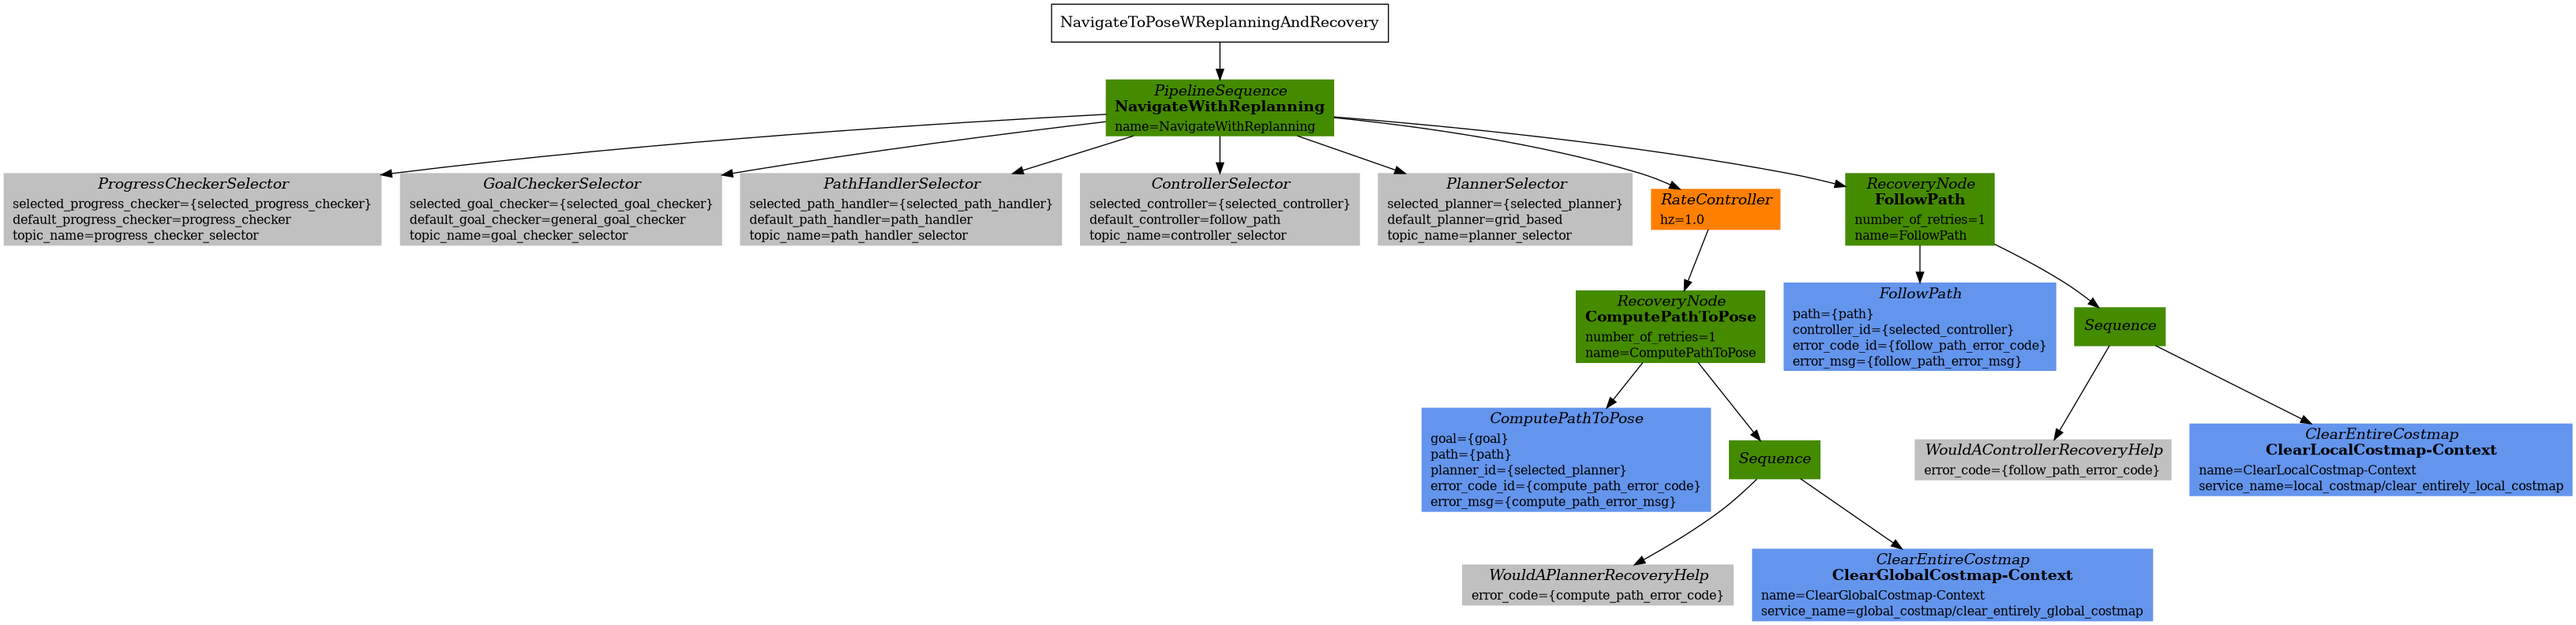
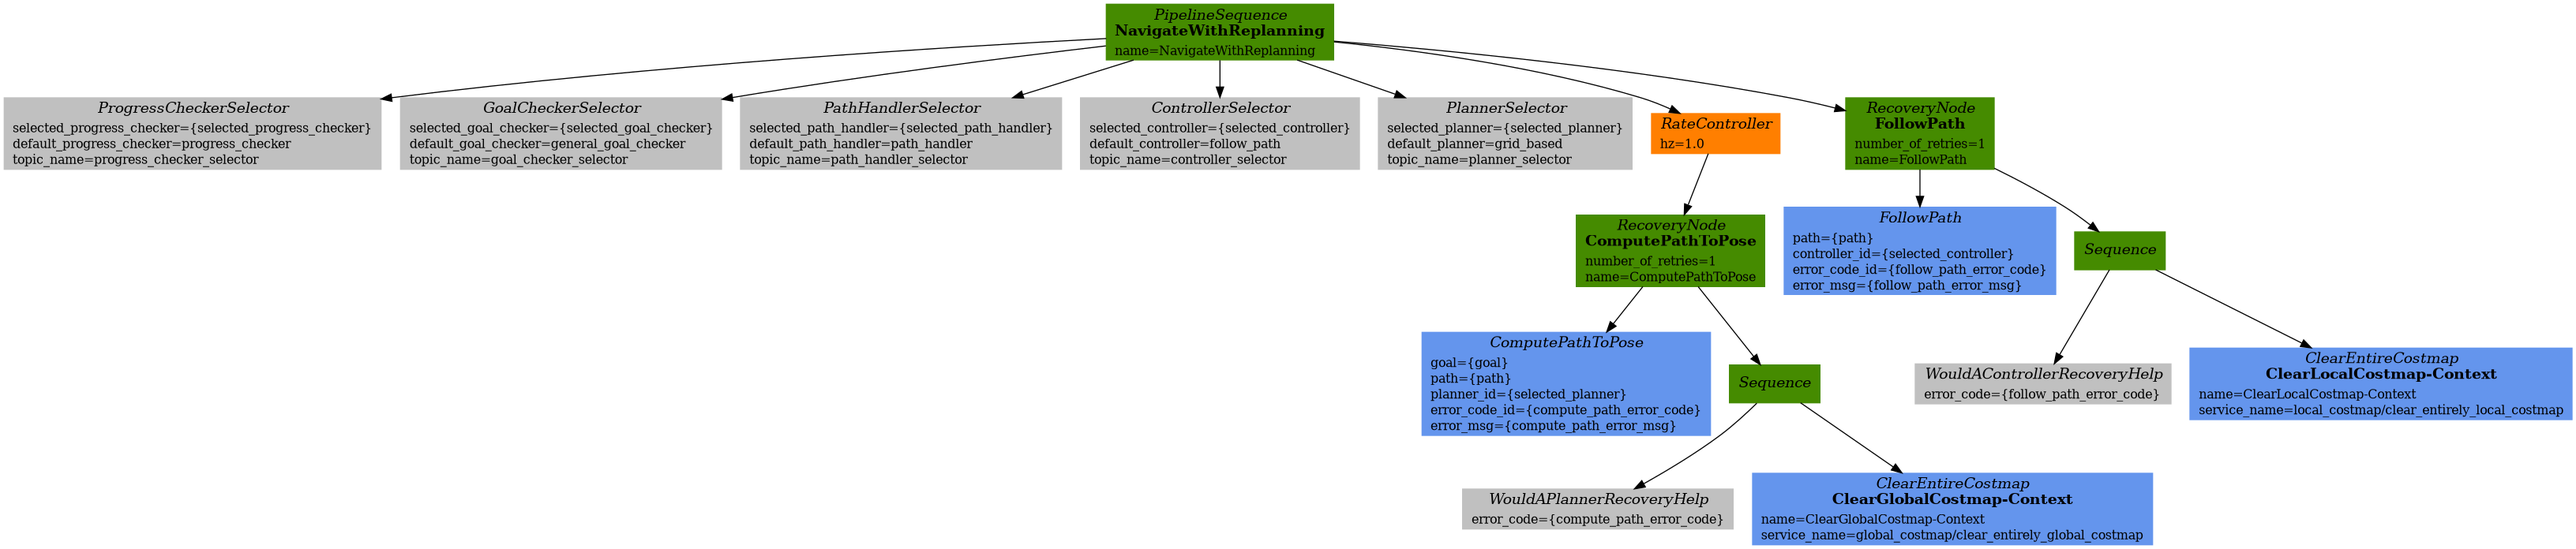
fix: update bt configuration and images

diff --git a/behavior_trees/overview/detailed_behavior_tree_walkthrough.rst b/behavior_trees/overview/detailed_behavior_tree_walkthrough.rst
@@ -145,33 +145,29 @@ The XML of this subtree is as follows:
 
 .. code-block:: xml
 
-    <root BTCPP_format="4" main_tree_to_execute="NavigateToPoseWReplanningAndRecovery">
-        <BehaviorTree ID="NavigateToPoseWReplanningAndRecovery">
-            <PipelineSequence name="NavigateWithReplanning">
-                <ProgressCheckerSelector selected_progress_checker="{selected_progress_checker}" default_progress_checker="progress_checker" topic_name="progress_checker_selector"/>
-                <GoalCheckerSelector selected_goal_checker="{selected_goal_checker}" default_goal_checker="general_goal_checker" topic_name="goal_checker_selector"/>
-                <PathHandlerSelector selected_path_handler="{selected_path_handler}" default_path_handler="path_handler" topic_name="path_handler_selector"/>
-                <ControllerSelector selected_controller="{selected_controller}" default_controller="follow_path" topic_name="controller_selector"/>
-                <PlannerSelector selected_planner="{selected_planner}" default_planner="grid_based" topic_name="planner_selector"/>
-                <RateController hz="1.0">
-                    <RecoveryNode number_of_retries="1" name="ComputePathToPose">
-                        <ComputePathToPose goal="{goal}" path="{path}" planner_id="{selected_planner}" error_code_id="{compute_path_error_code}" error_msg="{compute_path_error_msg}"/>
-                        <Sequence>
-                            <WouldAPlannerRecoveryHelp error_code="{compute_path_error_code}"/>
-                            <ClearEntireCostmap name="ClearGlobalCostmap-Context" service_name="global_costmap/clear_entirely_global_costmap"/>
-                        </Sequence>
-                    </RecoveryNode>
-                </RateController>
-                <RecoveryNode number_of_retries="1" name="FollowPath">
-                    <FollowPath path="{path}" controller_id="{selected_controller}" error_code_id="{follow_path_error_code}" error_msg="{follow_path_error_msg}"/>
-                    <Sequence>
-                        <WouldAControllerRecoveryHelp error_code="{follow_path_error_code}"/>
-                        <ClearEntireCostmap name="ClearLocalCostmap-Context" service_name="local_costmap/clear_entirely_local_costmap"/>
-                    </Sequence>
-                </RecoveryNode>
-            </PipelineSequence>
-        </BehaviorTree>
-    </root>
+    <PipelineSequence name="NavigateWithReplanning">
+        <ProgressCheckerSelector selected_progress_checker="{selected_progress_checker}" default_progress_checker="progress_checker" topic_name="progress_checker_selector"/>
+        <GoalCheckerSelector selected_goal_checker="{selected_goal_checker}" default_goal_checker="general_goal_checker" topic_name="goal_checker_selector"/>
+        <PathHandlerSelector selected_path_handler="{selected_path_handler}" default_path_handler="path_handler" topic_name="path_handler_selector"/>
+        <ControllerSelector selected_controller="{selected_controller}" default_controller="follow_path" topic_name="controller_selector"/>
+        <PlannerSelector selected_planner="{selected_planner}" default_planner="grid_based" topic_name="planner_selector"/>
+        <RateController hz="1.0">
+            <RecoveryNode number_of_retries="1" name="ComputePathToPose">
+                <ComputePathToPose goal="{goal}" path="{path}" planner_id="{selected_planner}" error_code_id="{compute_path_error_code}" error_msg="{compute_path_error_msg}"/>
+                <Sequence>
+                    <WouldAPlannerRecoveryHelp error_code="{compute_path_error_code}"/>
+                    <ClearEntireCostmap name="ClearGlobalCostmap-Context" service_name="global_costmap/clear_entirely_global_costmap"/>
+                </Sequence>
+            </RecoveryNode>
+        </RateController>
+        <RecoveryNode number_of_retries="1" name="FollowPath">
+            <FollowPath path="{path}" controller_id="{selected_controller}" error_code_id="{follow_path_error_code}" error_msg="{follow_path_error_msg}"/>
+            <Sequence>
+                <WouldAControllerRecoveryHelp error_code="{follow_path_error_code}"/>
+                <ClearEntireCostmap name="ClearLocalCostmap-Context" service_name="local_costmap/clear_entirely_local_costmap"/>
+            </Sequence>
+        </RecoveryNode>
+    </PipelineSequence>
 
 This subtree has two primary actions ``ComputePathToPose`` and ``FollowPath``.
 If either of these two actions fail, they will attempt to clear the failure contextually.
@@ -241,28 +237,24 @@ And the XML snippet:
 
 .. code-block:: xml
 
-    <root BTCPP_format="4" main_tree_to_execute="NavigateToPoseWReplanningAndRecovery">
-        <BehaviorTree ID="NavigateToPoseWReplanningAndRecovery">
-            <Sequence>
-                <Fallback>
-                    <WouldAControllerRecoveryHelp error_code="{follow_path_error_code}"/>
-                    <WouldAPlannerRecoveryHelp error_code="{compute_path_error_code}"/>
-                </Fallback>
-                <ReactiveFallback name="RecoveryFallback">
-                    <GoalUpdated/>
-                    <RoundRobin name="RecoveryActions">
-                        <Sequence name="ClearingActions">
-                            <ClearEntireCostmap name="ClearLocalCostmap-Subtree" service_name="local_costmap/clear_entirely_local_costmap"/>
-                            <ClearEntireCostmap name="ClearGlobalCostmap-Subtree" service_name="global_costmap/clear_entirely_global_costmap"/>
-                        </Sequence>
-                        <Spin spin_dist="1.57" error_code_id="{spin_error_code}" error_msg="{spin_error_msg}"/>
-                        <Wait wait_duration="5.0" error_code_id="{wait_error_code}" error_msg="{wait_error_msg}"/>
-                        <BackUp backup_dist="0.30" backup_speed="0.15" error_code_id="{backup_error_code}" error_msg="{backup_error_msg}"/>
-                    </RoundRobin>
-                </ReactiveFallback>
-            </Sequence>
-        </BehaviorTree>
-    </root>
+    <Sequence>
+        <Fallback>
+            <WouldAControllerRecoveryHelp error_code="{follow_path_error_code}"/>
+            <WouldAPlannerRecoveryHelp error_code="{compute_path_error_code}"/>
+        </Fallback>
+        <ReactiveFallback name="RecoveryFallback">
+            <GoalUpdated/>
+            <RoundRobin name="RecoveryActions">
+                <Sequence name="ClearingActions">
+                    <ClearEntireCostmap name="ClearLocalCostmap-Subtree" service_name="local_costmap/clear_entirely_local_costmap"/>
+                    <ClearEntireCostmap name="ClearGlobalCostmap-Subtree" service_name="global_costmap/clear_entirely_global_costmap"/>
+                </Sequence>
+                <Spin spin_dist="1.57" error_code_id="{spin_error_code}" error_msg="{spin_error_msg}"/>
+                <Wait wait_duration="5.0" error_code_id="{wait_error_code}" error_msg="{wait_error_msg}"/>
+                <BackUp backup_dist="0.30" backup_speed="0.15" error_code_id="{backup_error_code}" error_msg="{backup_error_msg}"/>
+            </RoundRobin>
+        </ReactiveFallback>
+    </Sequence>
 
 At the top level, a ``Sequence`` ensures the following steps are executed in order:
 
